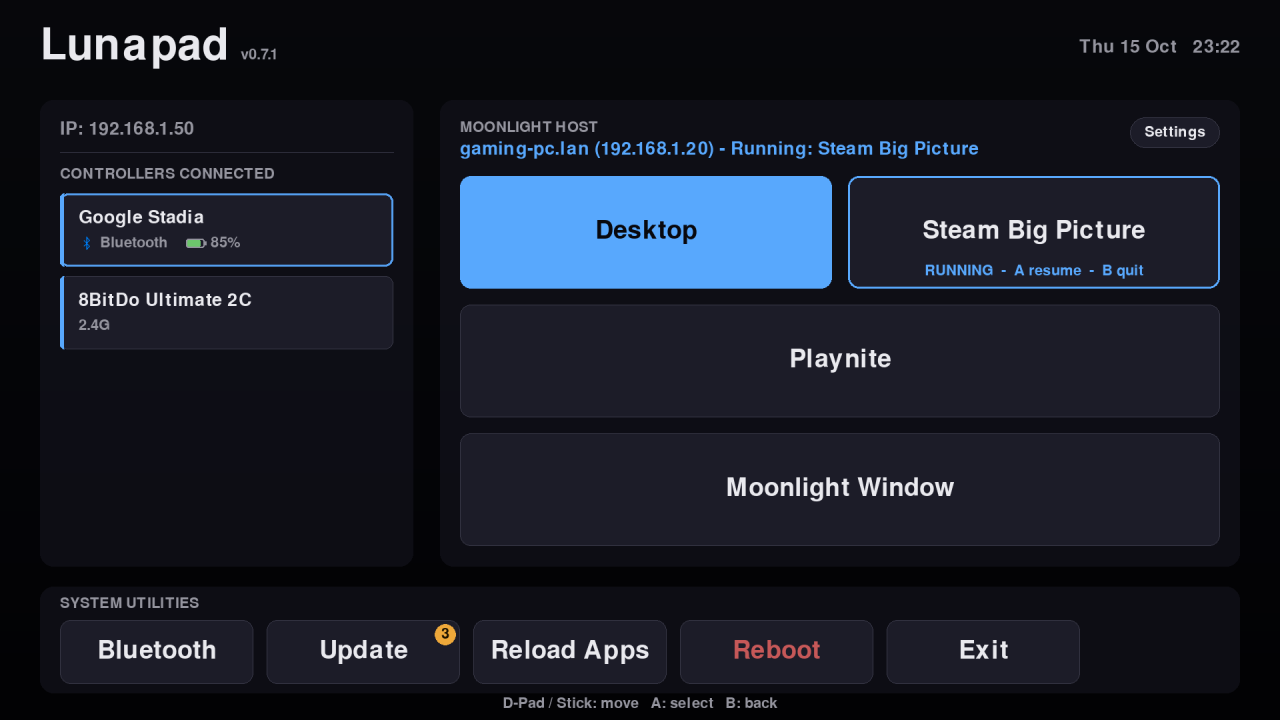
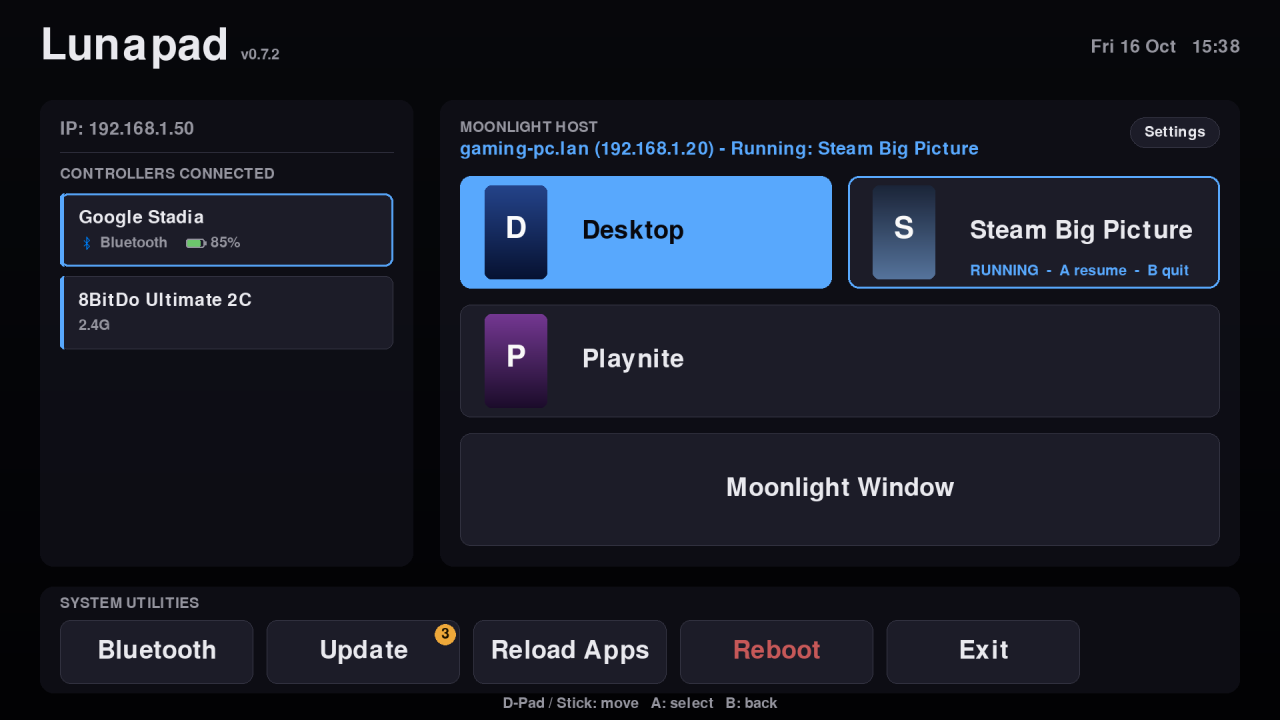
README screenshots: dashboard with (made-up) box art
The screenshot tool generates placeholder covers - gradients with an
initial, never real game art - so the dashboard and Update screenshots
show the box art layout.

diff --git a/tools/readme_screenshots.py b/tools/readme_screenshots.py
@@ -1,5 +1,5 @@
 """Renders the README screenshots (docs/images/*.png, 1280x720) from lunapad.py's
-own drawing code, with sample data - no real hosts, addresses or devices.
+own drawing code, with sample data - no real hosts, addresses, devices or game art.
 
     pip install pygame-ce
     python tools/readme_screenshots.py [out_dir]     (default: docs/images/)
@@ -37,6 +37,23 @@ ns.update(CLIENT_IP="192.168.1.50", host_reachable=True, pending_updates=3, moon
 ns["host_apps"] = ["Desktop", "Steam Big Picture", "Playnite"]
 ns["host_app_ids"] = {"Desktop": 1, "Steam Big Picture": 2, "Playnite": 3}
 ns["host_running_app_id"] = 2
+
+
+def sample_cover(app_id, top, bottom, letter):
+    """A made-up 600x900 box art cover (gradient + initial) - never real game art."""
+    s = pygame.Surface((600, 900))
+    for y in range(900):
+        t = y / 899
+        s.fill([round(a + (b - a) * t) for a, b in zip(top, bottom, strict=True)], (0, y, 600, 1))
+    glyph = pygame.font.Font(None, 420).render(letter, True, (255, 255, 255))
+    s.blit(glyph, glyph.get_rect(center=(300, 430)))
+    os.makedirs(ns["BOXART_DIR"], exist_ok=True)
+    pygame.image.save(s, ns["box_art_path"](app_id))
+
+
+sample_cover(1, (40, 70, 140), (10, 20, 50), "D")
+sample_cover(2, (30, 40, 60), (90, 120, 160), "S")
+sample_cover(3, (120, 60, 150), (30, 15, 45), "P")
 pads = [{"name": "Google Stadia Controller", "battery": "85", "connection": "Bluetooth", "mac": None},
         {"name": "8BitDo Ultimate 2C Wireless Controller", "battery": None, "connection": "2.4G", "mac": None}]
 cards = ns["label_controllers"]([dict(p, iid=i) for i, p in enumerate(pads)])
